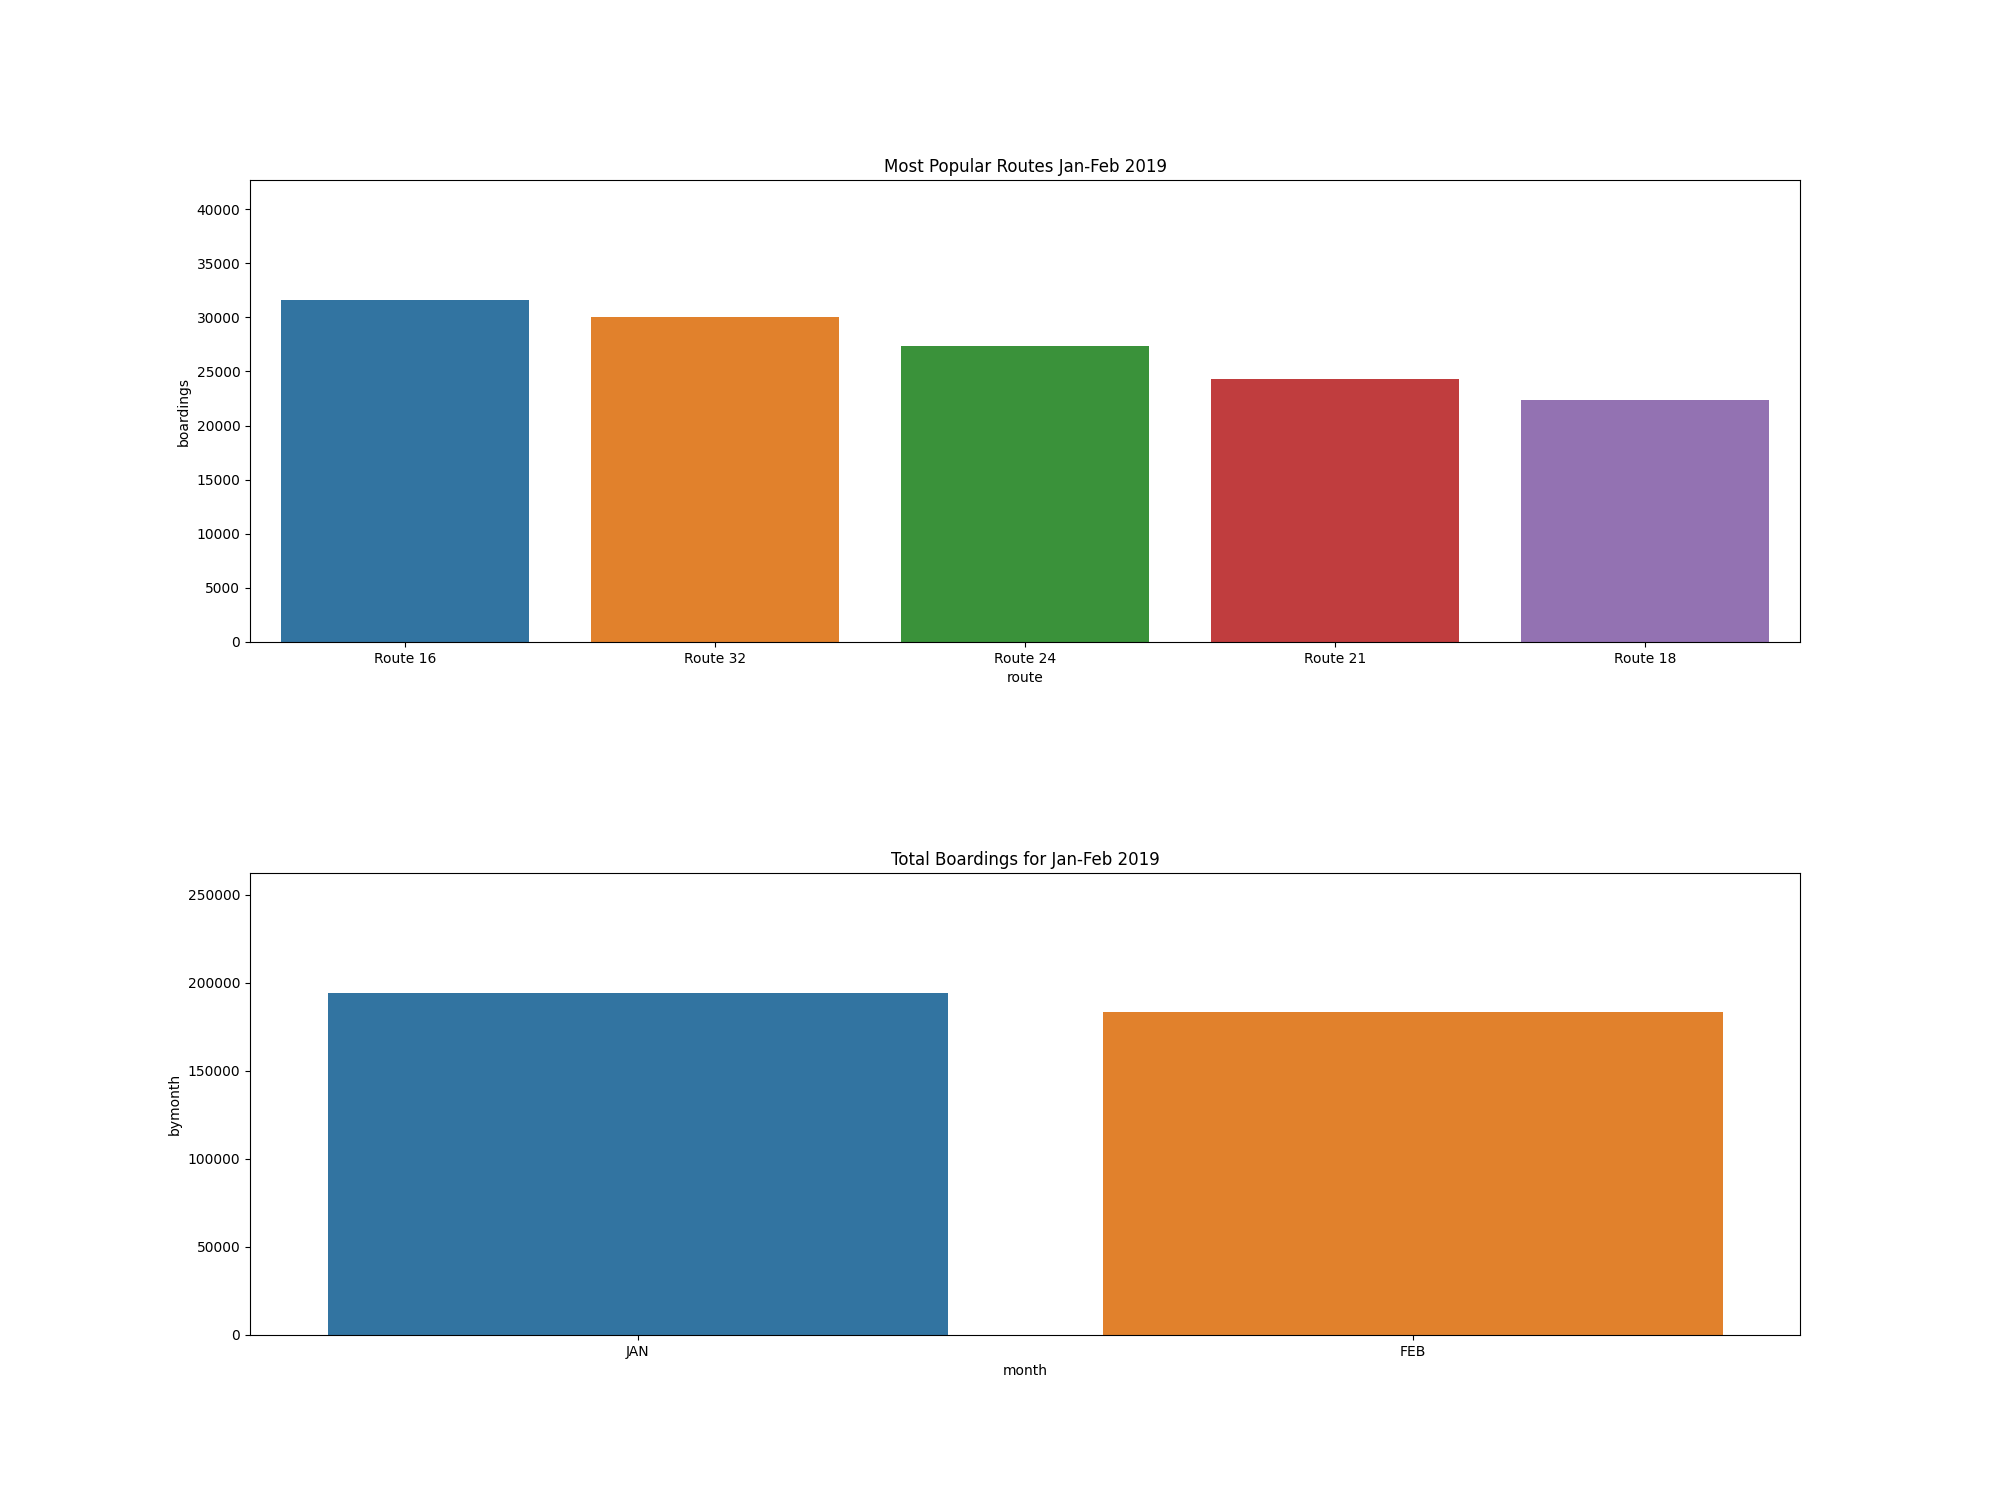
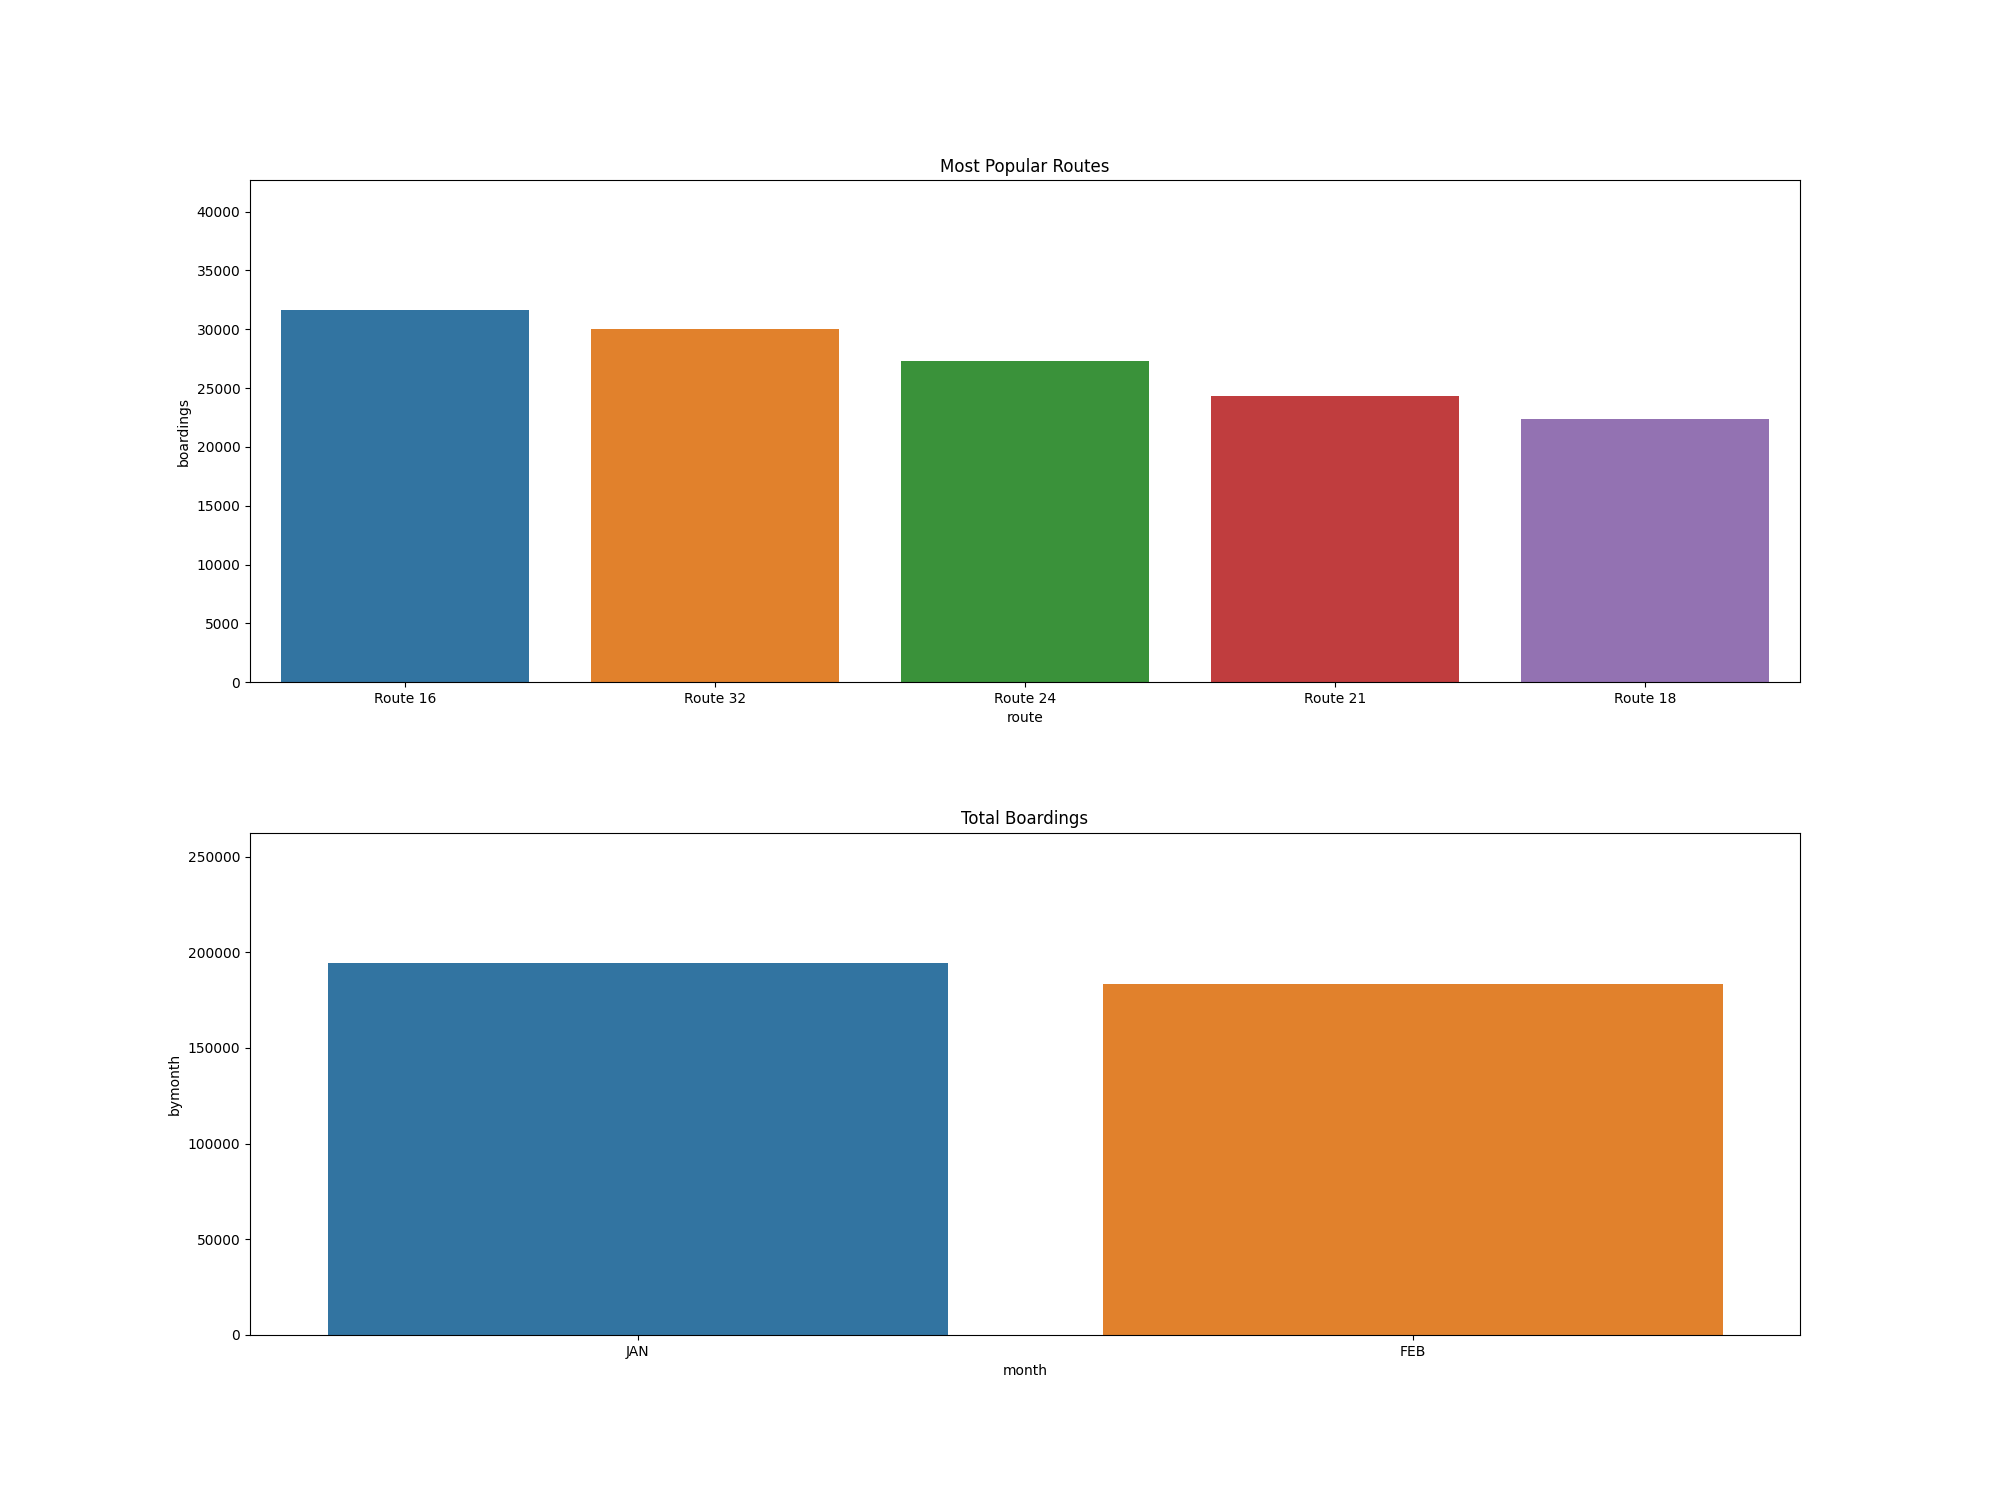
image fix

diff --git a/FinalProject.py b/FinalProject.py
@@ -52,10 +52,10 @@ class PGJanuaryFebruary19:
         plt.subplots_adjust(hspace = 0.3)
         sns.barplot(ax=axes[0],data=routesordered[0:5], x='route',y="boardings")
         axes[0].set_ylim(0,routesordered['boardings'].max()+(routesordered['boardings'].max()*0.35))
-        axes[0].set_title("Most Popular Routes Jan-Feb 2019")
+        axes[0].set_title("Most Popular Routes")
         sns.barplot(ax=axes[1],data=df,x='month',y='bymonth')
         axes[1].set_ylim(0,bymonth['boardings'].max()+(bymonth['boardings'].max()*0.35))
-        axes[1].set_title("Total Boardings for Jan-Feb 2019")
+        axes[1].set_title("Total Boardings")
         plt.savefig("Deliverables/PG/PGJanuaryFebruary19/BoardingAlightingTrends/2019janfeb_bestroutes.png")
         
         # POPULAR STOPS
@@ -178,10 +178,10 @@ class PGMarchMay19:
         plt.subplots_adjust(hspace = 0.5)
         sns.barplot(ax=axes[0],data=routesordered[0:5], x='route',y="boardings")
         axes[0].set_ylim(0,routesordered['boardings'].max()+(routesordered['boardings'].max()*0.35))
-        axes[0].set_title("Most Popular Routes Mar-May 2019")
+        axes[0].set_title("Most Popular Routes")
         sns.barplot(ax=axes[1],data=df,x='month',y='bymonth')
         axes[1].set_ylim(0,bymonth['boardings'].max()+(bymonth['boardings'].max()*0.35))
-        axes[1].set_title("Total Boardings for Mar-May 2019")
+        axes[1].set_title("Total Boardings")
         plt.savefig("Deliverables/PG/PGMarchMay19/BoardingAlightingTrends/2019marmay_bestroutes.png")
         
         # POPULAR STOPS
@@ -204,7 +204,7 @@ class PGMarchMay19:
         fig, axes = plt.subplots(2, figsize=(20,15))
         plt.subplots_adjust(hspace = 0.5)
         axes[0]=sns.barplot(ax=axes[0],data=todroutes, x='hour',y="boardings",ci=None)
-        axes[0].set_title("Boarding by the Hour Mar-May 2019")
+        axes[0].set_title("Boarding by the Hour")
         axes[1]=sns.barplot(ax=axes[1],data=todroutes.iloc[0:20], x='route',y='boardings',ci=None)
         axes[1].set_title("Top Routes by Boarding")
         plt.savefig("Deliverables/PG/PGMarchMay19/BoardingAlightingTrends/2019marmay_topstops_byhour.png")
@@ -304,10 +304,10 @@ class PGAugustJanuary19:
         plt.subplots_adjust(hspace = 0.5)
         sns.barplot(ax=axes[0],data=routesordered[0:5], x='route',y="boardings")
         axes[0].set_ylim(0,routesordered['boardings'].max()+(routesordered['boardings'].max()*0.35))
-        axes[0].set_title("Most Popular Routes Aug'19-Jan'20")
+        axes[0].set_title("Most Popular Routes")
         sns.barplot(ax=axes[1],data=df,x='month',y='bymonth')
         axes[1].set_ylim(0,bymonth['boardings'].max()+(bymonth['boardings'].max()*0.35))
-        axes[1].set_title("Total Boardings for Aug'19-Jan'20")
+        axes[1].set_title("Total Boardings")
         plt.savefig("Deliverables/PG/PGAugustJanuary19/BoardingAlightingTrends/2019augjan_bestroutes.png")
         
         # POPULAR STOPS
@@ -427,10 +427,10 @@ class PGJanuaryFebruary20:
         plt.subplots_adjust(hspace = 0.5)
         sns.barplot(ax=axes[0],data=routesordered[0:5], x='route',y="boardings")
         axes[0].set_ylim(0,routesordered['boardings'].max()+(routesordered['boardings'].max()*0.35))
-        axes[0].set_title("Most Popular Routes Jan-Feb 2020")
+        axes[0].set_title("Most Popular Routes")
         sns.barplot(ax=axes[1],data=df,x='month',y='bymonth')
         axes[1].set_ylim(0,bymonth['boardings'].max()+(bymonth['boardings'].max()*0.35))
-        axes[1].set_title("Total Boardings for Jan-Feb 2020")
+        axes[1].set_title("Total Boardings")
         plt.savefig("Deliverables/PG/PGJanuaryFebruary20/BoardingAlightingTrends/2020janfeb_bestroutes.png")
         
         # POPULAR STOPS
@@ -453,7 +453,7 @@ class PGJanuaryFebruary20:
         fig, axes = plt.subplots(2, figsize=(20,15))
         plt.subplots_adjust(hspace = 0.5)
         axes[0]=sns.barplot(ax=axes[0],data=todroutes, x='hour',y="boardings",ci=None)
-        axes[0].set_title("Boarding by the Hour Jan-Feb 2020")
+        axes[0].set_title("Boarding by the Hour")
         axes[1]=sns.barplot(ax=axes[1],data=todroutes[0:10], x='route',y='boardings',ci=None)
         plt.savefig("Deliverables/PG/PGJanuaryFebruary20/BoardingAlightingTrends/2020janfeb_topstops_byhour.png")
         boardings2=todroutes.nlargest(len(todroutes),'boardings')
@@ -580,10 +580,10 @@ class PGMarchMay20:
         plt.subplots_adjust(hspace = 0.5)
         sns.barplot(ax=axes[0],data=routesordered[0:5], x='route',y="boardings")
         axes[0].set_ylim(0,routesordered['boardings'].max()+(routesordered['boardings'].max()*0.35))
-        axes[0].set_title("Most Popular Routes Mar-May 2020")
+        axes[0].set_title("Most Popular Routes")
         sns.barplot(ax=axes[1],data=df,x='month',y='bymonth')
         axes[1].set_ylim(0,bymonth['boardings'].max()+(bymonth['boardings'].max()*0.35))
-        axes[1].set_title("Total Boardings for Mar-May 2020")
+        axes[1].set_title("Total Boardings")
         plt.savefig("Deliverables/PG/PGMarchMay20/BoardingAlightingTrends/2020marmay_bestroutes.png")
         
         # POPULAR STOPS
@@ -606,7 +606,7 @@ class PGMarchMay20:
         fig, axes = plt.subplots(2, figsize=(20,15))
         plt.subplots_adjust(hspace = 0.5)
         axes[0]=sns.barplot(ax=axes[0],data=todroutes, x='hour',y="boardings",ci=None)
-        axes[0].set_title("Boarding by the Hour Jan-Feb 2020")
+        axes[0].set_title("Boarding by the Hour")
         axes[1]=sns.barplot(ax=axes[1],data=todroutes[0:10], x='route',y='boardings',ci=None)
         axes[1].set_title("Top Routes by Boarding")
         plt.savefig("Deliverables/PG/PGMarchMay20/BoardingAlightingTrends/2020marmay_topstops_byhour.png")
@@ -738,7 +738,7 @@ class PGAugustJanuary20:
         axes[0].set_ylim(0,routesordered['boardings'].max()+(routesordered['boardings'].max()*0.35))
         sns.barplot(ax=axes[1],data=df,x='month',y='bymonth')
         axes[1].set_ylim(0,bymonth['boardings'].max()+(bymonth['boardings'].max()*0.35))
-        axes[1].set_title("Total Boardings for Aug'20-Jan'21")
+        axes[1].set_title("Total Boardings")
         plt.savefig("Deliverables/PG/PGAugustJanuary20/BoardingAlightingTrends/2020augjan_bestroutes.png")
         
         # POPULAR STOPS
@@ -761,7 +761,7 @@ class PGAugustJanuary20:
         fig, axes = plt.subplots(2, figsize=(20,15))
         plt.subplots_adjust(hspace = 0.5)
         axes[0]=sns.barplot(ax=axes[0],data=todroutes, x='hour',y="boardings",ci=None)
-        axes[0].set_title("Boarding by the Hour Jan-Feb 2020")
+        axes[0].set_title("Boarding by the Hour")
         axes[1]=sns.barplot(ax=axes[1],data=todroutes, x='route',y='boardings',ci=None)
         axes[1].set_title("Top Routes by Boarding")
         plt.savefig("Deliverables/PG/PGAugustJanuary20/BoardingAlightingTrends/2020augjan_topstops_byhour.png")
